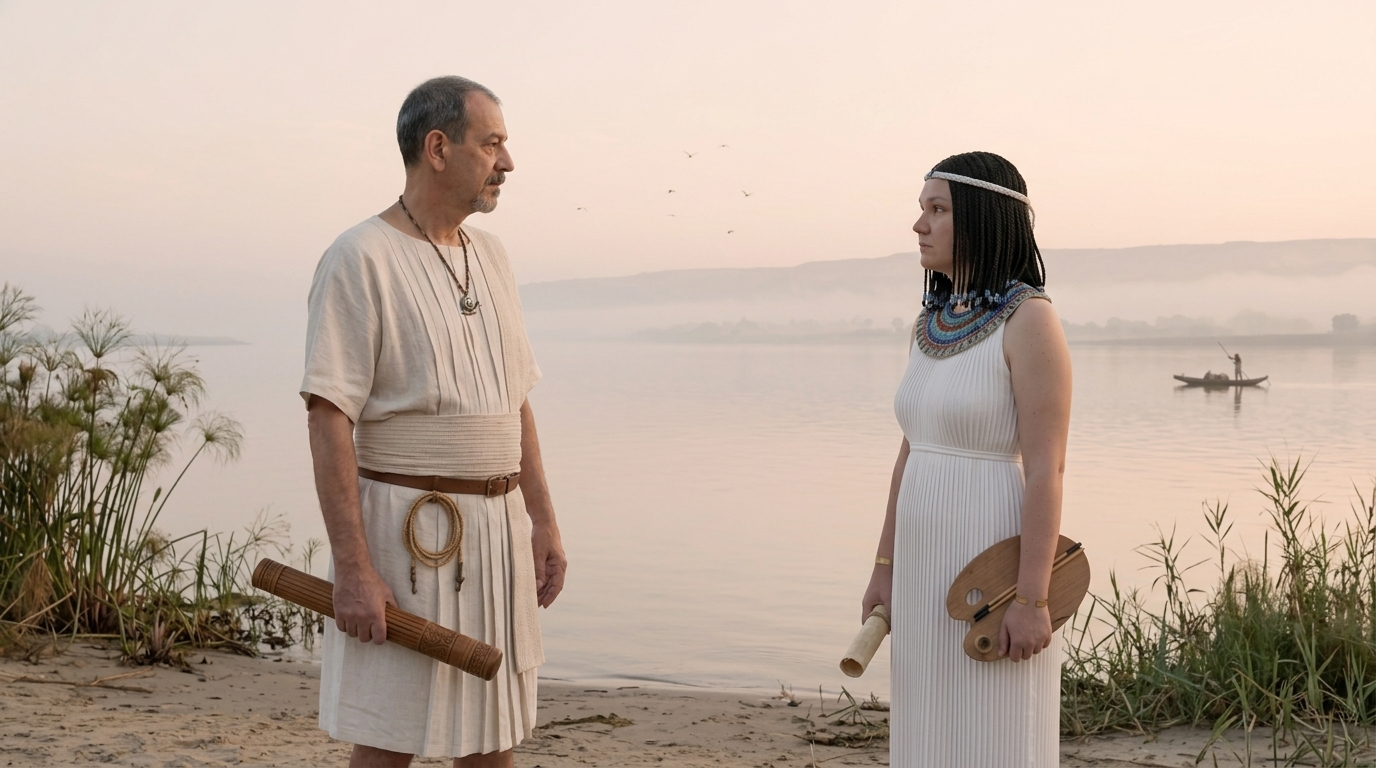
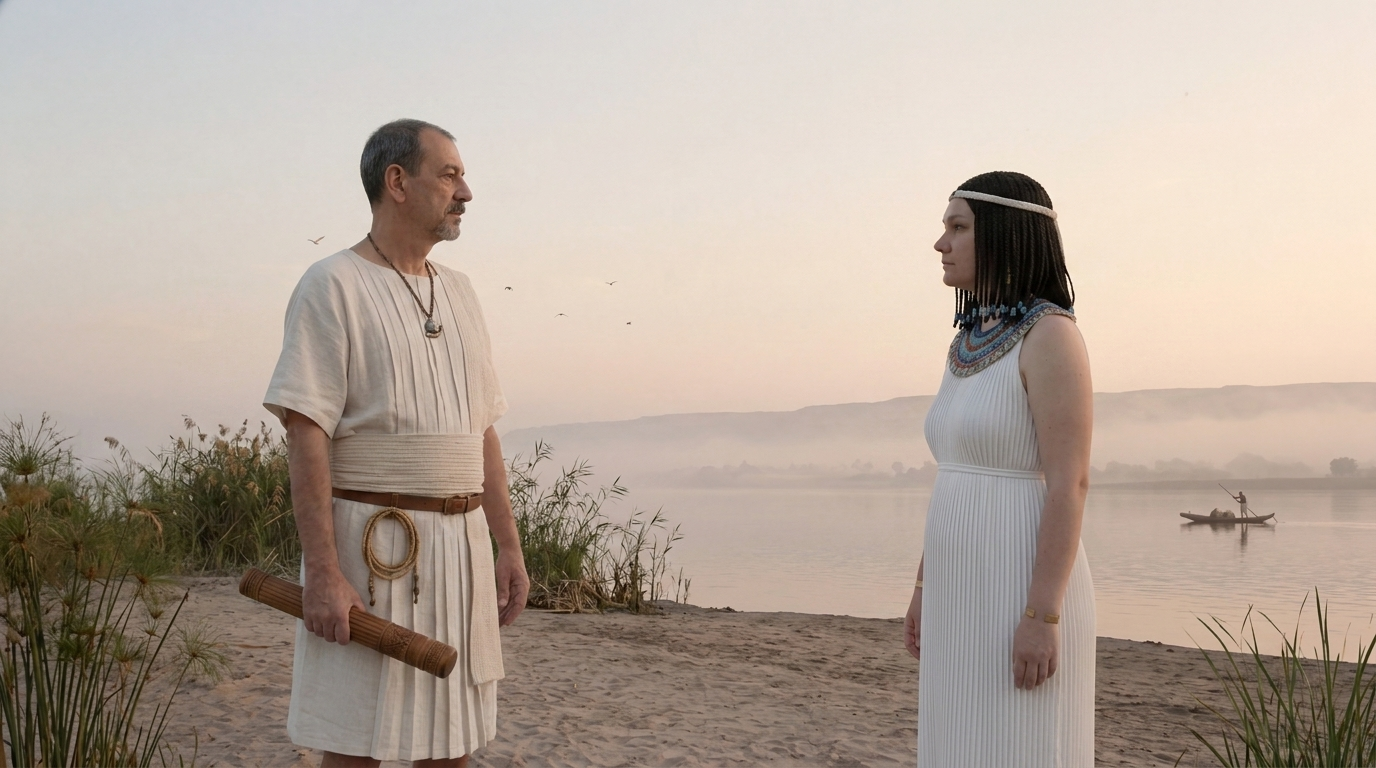
PS001R2-C3: fix pendant migration (Jen collar + Gary back)
EP-flagged bug: snail pendant appeared on Jen mid-clip then vanished.
Root cause: motion render NEG never forbade a pendant on the woman
(only keyframe gen did). Re-rendered with pendant-on-woman negatives
+ "only the man wears the snail". 2nd pass: snail then rode Gary's
back in rear frames -> added pendant-on-back negatives + "snail on
chest always, cord-only from behind".

Result (frame sweep n0/48/72/96/191): Jen collar-only end-to-end;
Gary's snail on chest, clean back (cord-only) from behind; slim Jen;
neither smiles; shoreline consistent. Minor: soft dissolve ~n72
during camera arc (transition blend, editorial cut avoids it).

End keyframe TL-0070_v6_candidate.png (retrofitted HERO-03) synced
to repo. Ready for Gemini GVR.

diff --git a/12_Review_Queue/Seq01_PerfSeg001/PS001R2-C3.md b/12_Review_Queue/Seq01_PerfSeg001/PS001R2-C3.md
@@ -27,7 +27,19 @@ Over-the-shoulder past Gary toward Jen (slender scholar) who has entered. She re
 - New end frame = **`Keyframes/TL-0070_v6_candidate.png`** (retrofitted HERO-03: slim Jen + silver snail + sandy reed shoreline; re-derived from the Gary+Jen turnarounds after nb2 edit-mode failed to slim Jen on v5). Re-rendered `PS001R2-C3.mp4` (8 s native, 2.68 MB), first=C3a → last=v6.
 - **Supervisor objective observations:** slim Jen holds **end-to-end**, Gary's snail present, sandy reed shoreline throughout, no temple, no fuller-Jen revert, neither smiling, resolves to the recognition two-shot ✅. Minor flag: a faint spiral near Jen's collar mid-clip (possible snail bleed onto Jen — not her motif) — Gemini/Director to check. Camera arcs from over-shoulder to a side two-shot (acceptable; arrives at the beat).
 - **HERO-03 v6 candidate is a proposed update to the locked hero** (v5 is now off-canon: fuller Jen, temple bg, non-snail). Pending EP/Director approval to lock v6 → `14_Selected/` and archive v5 → `13_Production_History/`.
-- Gemini GVR: *(ready)* · EP: *(pending v6 approval)* · Disposition: Review Queue — re-rendered, ready for GVR
+- Gemini GVR: *(superseded)* · EP: *(superseded)* · Disposition: superseded by pendant-migration fix below.
+
+### Re-render (2026-07-01) — PENDANT-MIGRATION FIX — RESOLVED ✅ (EP-flagged bug)
+- **EP bug report:** "when Jen first appears, she is wearing a snail pendant, then it vanishes — clean that up." Investigation (FFmpeg frame sweep of the prior C3) showed the real defect: **start + end keyframes were clean, but Veo migrated Gary's silver snail onto Jen's collar mid-clip (~n96–n144, ~4–6 s), then dropped it** — reading as an appear/vanish pendant on Jen. Root cause: the C3 **render negative prompt never forbade a pendant *on the woman*** (the keyframe negatives did; the motion NEG did not).
+- **Fix:** re-rendered with NEG extended — `snail/pendant/amulet/medallion/spiral/silver pendant on the woman`, `duplicate pendant`, `second snail` — plus positive prompt clause: *"ONLY THE MAN wears the silver snail pendant; the woman wears ONLY her beaded lapis-and-turquoise collar and has NO pendant on her chest."* first=`Keyframes/PK-PS001-C3a.png`, last=`Keyframes/TL-0070_v6_candidate.png`. Returned `PS001R2-C3.mp4` (8 s native, ~2.68 MB).
+- **Supervisor objective observations (frame sweep n0/72/96/144/191):** Jen wears **collar only, NO pendant, end-to-end** — snail-migration gone ✅. Gary's silver snail present throughout ✅. Slim Jen holds ✅. Sandy reed shoreline consistent ✅. Neither smiles; end reads eyes-first / soft-neutral (also eases the deferred C3-smile note) ✅. **Minor flag:** in rear-view frames Gary's snail cord shows the disc riding on his mid-back (motif swinging behind him) — his own motif, out of frame by the two-shot; Gemini/Director to judge.
+- Gemini GVR: *(superseded)* · EP: *(superseded)* · Disposition: superseded by back-pendant fix below.
+
+### Re-render (2026-07-01) — BACK-PENDANT FIX — RESOLVED ✅ (EP-flagged, 2nd pass)
+- **EP observation after viewing the pendant-migration fix:** snail no longer on Jen, but now **rides on Gary's lower back during the rear-view first half** (motif swinging behind him as the camera sits behind him).
+- **Fix:** re-rendered with NEG extended — `pendant/snail/medallion on the man's back`, `disc on the back`, `pendant on the shoulder blade`, `pendant behind the neck`, `pendant sliding around the body` — plus positive clause: *"the snail hangs on his CHEST at all times, never on his back or moving around his body; from behind only the plain cord shows at the nape."* Returned `PS001R2-C3.mp4` (8 s native, 2,402,138 bytes). NAS review copy synced to `04_Egypt/Motion/PS001R2-C3.mp4`.
+- **Supervisor objective observations (sweep n0/48/72/96/191):** rear frames show a **clean back — cord only, no disc ✅**; snail correctly on Gary's chest in the two-shot ✅; Jen collar-only, no pendant, end-to-end ✅; slim Jen ✅; neither smiles ✅; sandy reed shoreline consistent ✅. **Minor flag:** soft dissolve/ghosting around n72 as the camera arcs behind→side (transition blend, NOT a pendant issue); the 4.2 s editorial cut can avoid the softest moment.
+- Gemini GVR: *(ready)* · EP: *(pending)* · Disposition: Review Queue — both pendant issues fixed, ready for GVR.
 
 ## Lifecycle
 Created 2026-07-01 · Rendered: *(pending)* · GVR: *(pending)* · then editorial assembly C1+C2+C3 → 12.6 s